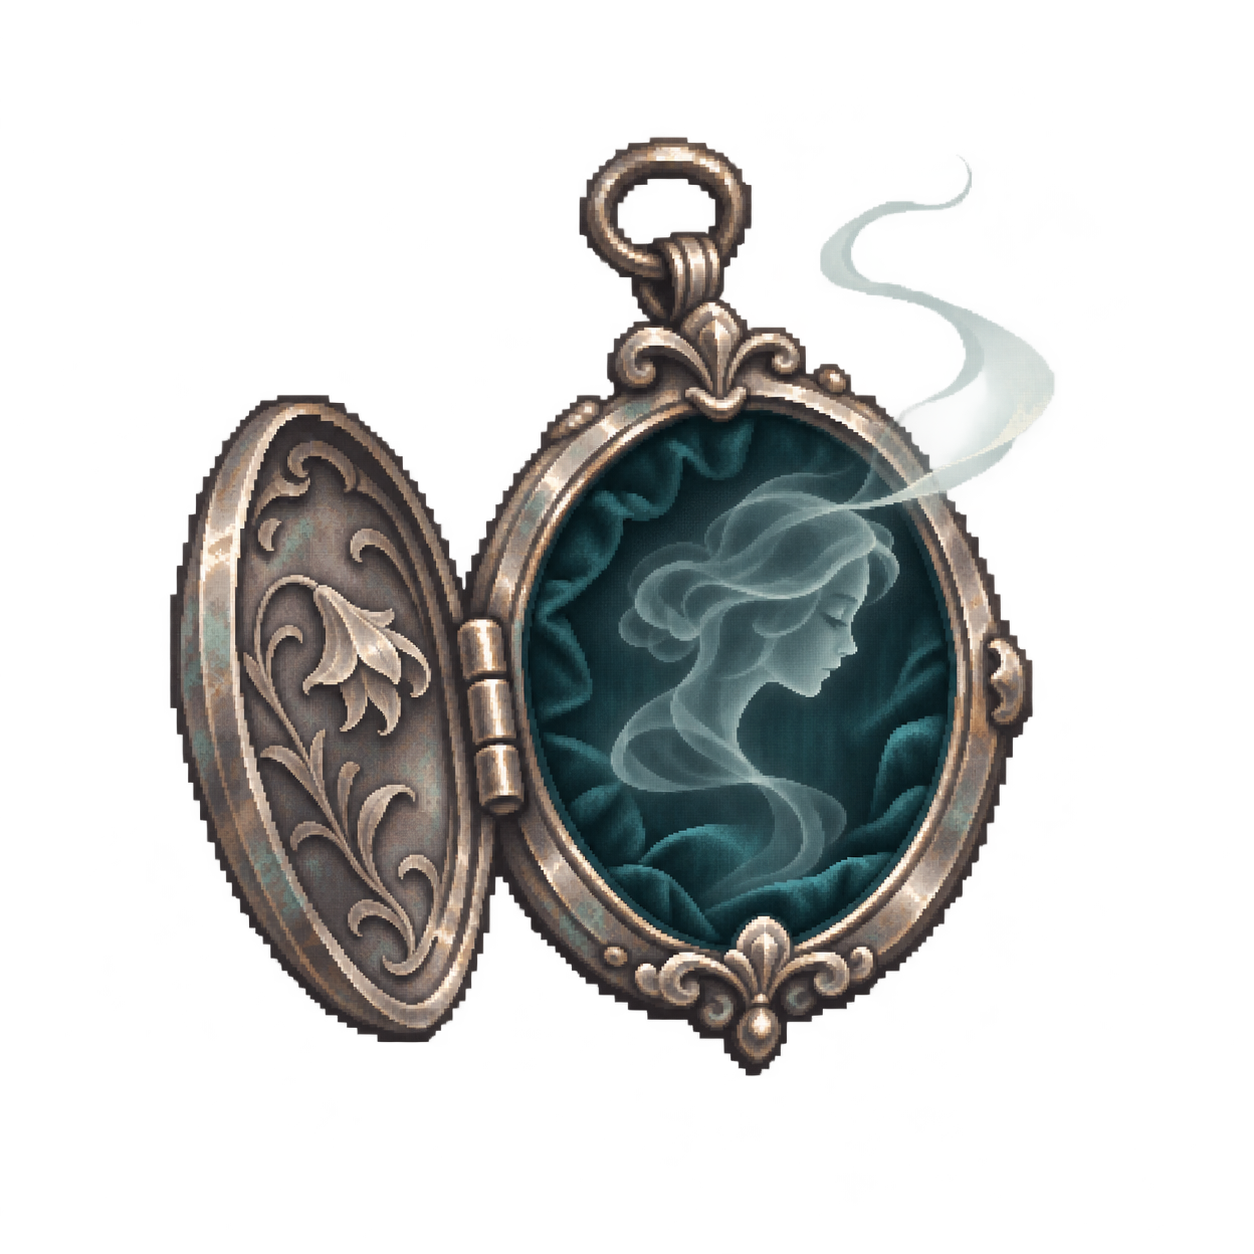
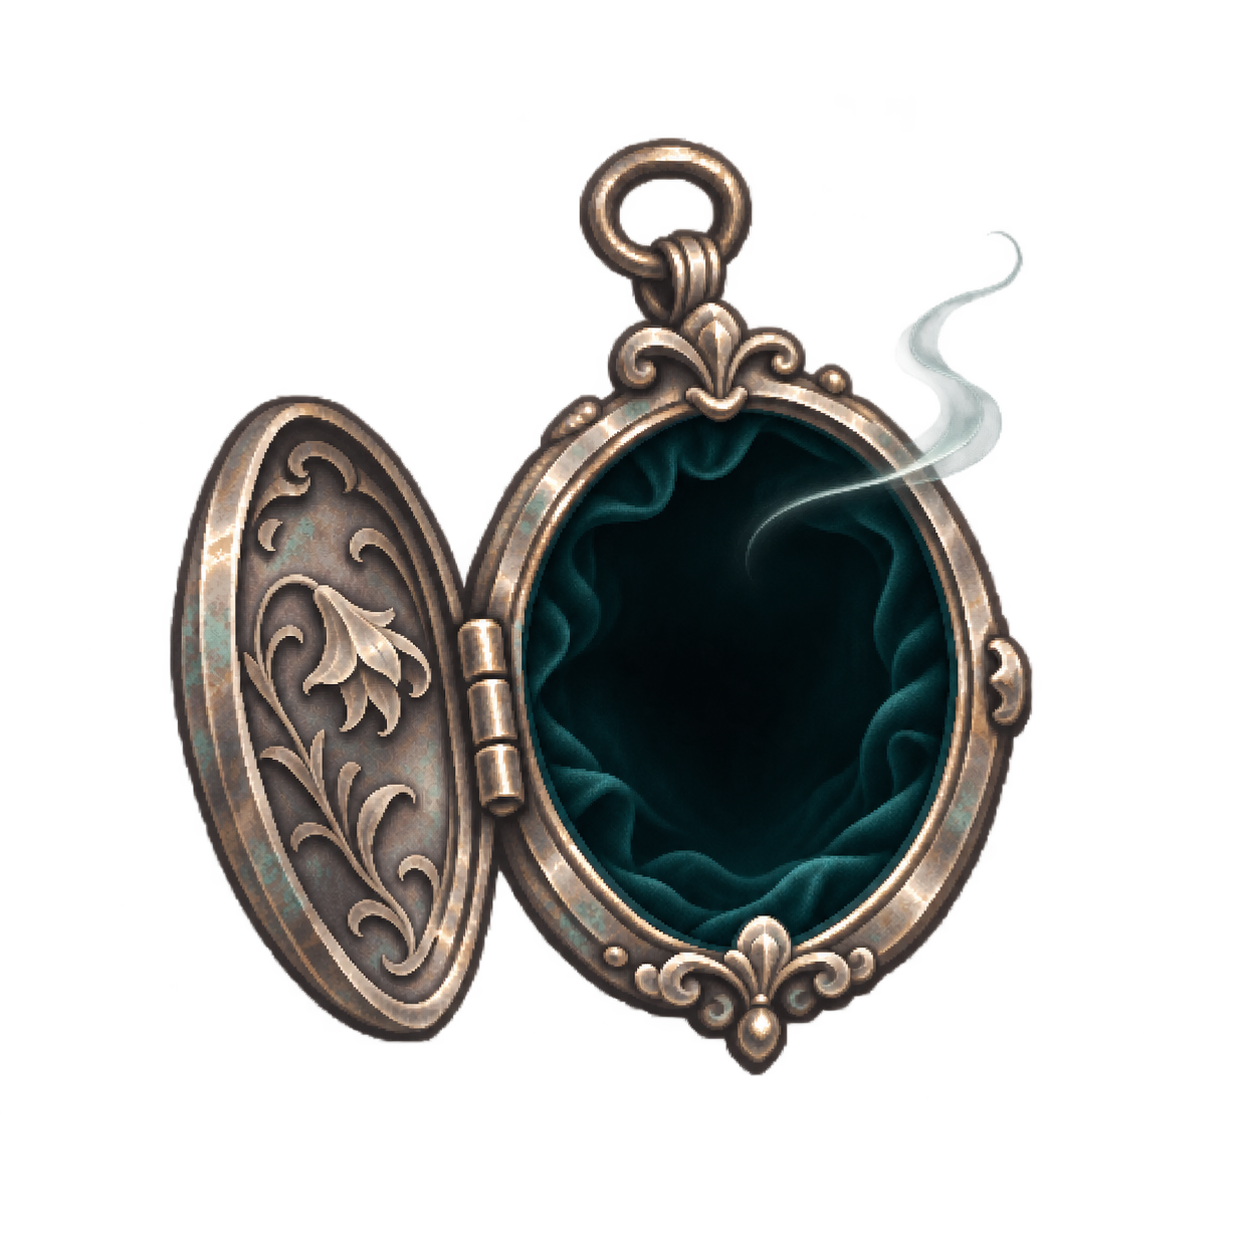
Refine the whisper and potion sprites after playtest feedback

diff --git a/icons/items/ARTWORK.md b/icons/items/ARTWORK.md
@@ -227,3 +227,24 @@ Subject: A folded ivory court writ held by a deep blue wax seal with a small sil
 ```text
 Subject: A charming old brass house-room key with a long shaped bow and a blank muted-plum enamel tag, one small ivory door-shaped inlay on the tag, no numbers or writing.
 ```
+
+
+## Ominous replacements after playtest feedback
+
+Generated with the built-in `image_gen` tool using `transparent_background=true`. Each existing sprite was edited separately. The returned PNGs were copied unchanged; originals remain in the generated-image directory. These replacements remove the gendered portrait from Dark Whisper and the cheerful heart motif from Love Potion.
+
+### dark_whisper.png (replacement)
+
+Source: `C:/Users/Josh/.codex/generated_images/01a2048b-9a4a-7631-b641-942c692efb20/exec-b57c7c24-8ab8-4e46-9ee0-7425477e04f5.png`
+
+```text
+Use case: precise-object-edit. Edit this Dark Whisper inventory sprite. Preserve the beautifully crafted open tarnished-silver locket, centered composition, midnight-teal palette, detailed deliberate pixel-art material work and transparent background. Remove the woman's portrait completely, including every recognizable face, head, hair silhouette and human profile in the vapor. Make its interior an ominous empty ink-dark recess with a restrained thin curl of pale silver-teal whisper-mist escaping from it. Suggest an unseen presence without depicting a person, skull, eyes, ghost mascot or gender. The result should feel mysterious and beautiful, not cute or cartoony. Maintain a strong compact silhouette at64px, crisp square pixel clusters, no text, surrounding scene or opaque background.
+```
+
+### love_potion.png (replacement)
+
+Source: `C:/Users/Josh/.codex/generated_images/01a2048b-9a4a-7631-b641-942c692efb20/exec-d6d3683d-4b32-4aa8-bc67-ad789b723bd2.png`
+
+```text
+Use case: precise-object-edit. Refine this Love Potion inventory sprite into a more ominous, less sweet magical object while preserving its beautifully drawn faceted glass vial, coherent silhouette, centered composition and transparent background. Shift bright candy pink glass toward deep ruby-wine and muted plum, with dark crimson liquid, restrained warm light through the facets and aged brass rather than shiny cheerful gold. Remove the obvious heart emblem and replace it with a subtle intertwined ornamental motif in the brass collar. Keep the item elegant, tactile and evocative, with deliberate crisp pixel clusters and readability at64px. This is an instantly targeted magical charm in the game: show only the potion object, with no throwing, spraying, drinking figure or delivery animation. No skull, cute face, cartoon sparkles, text, scene, frame or opaque background.
+```
